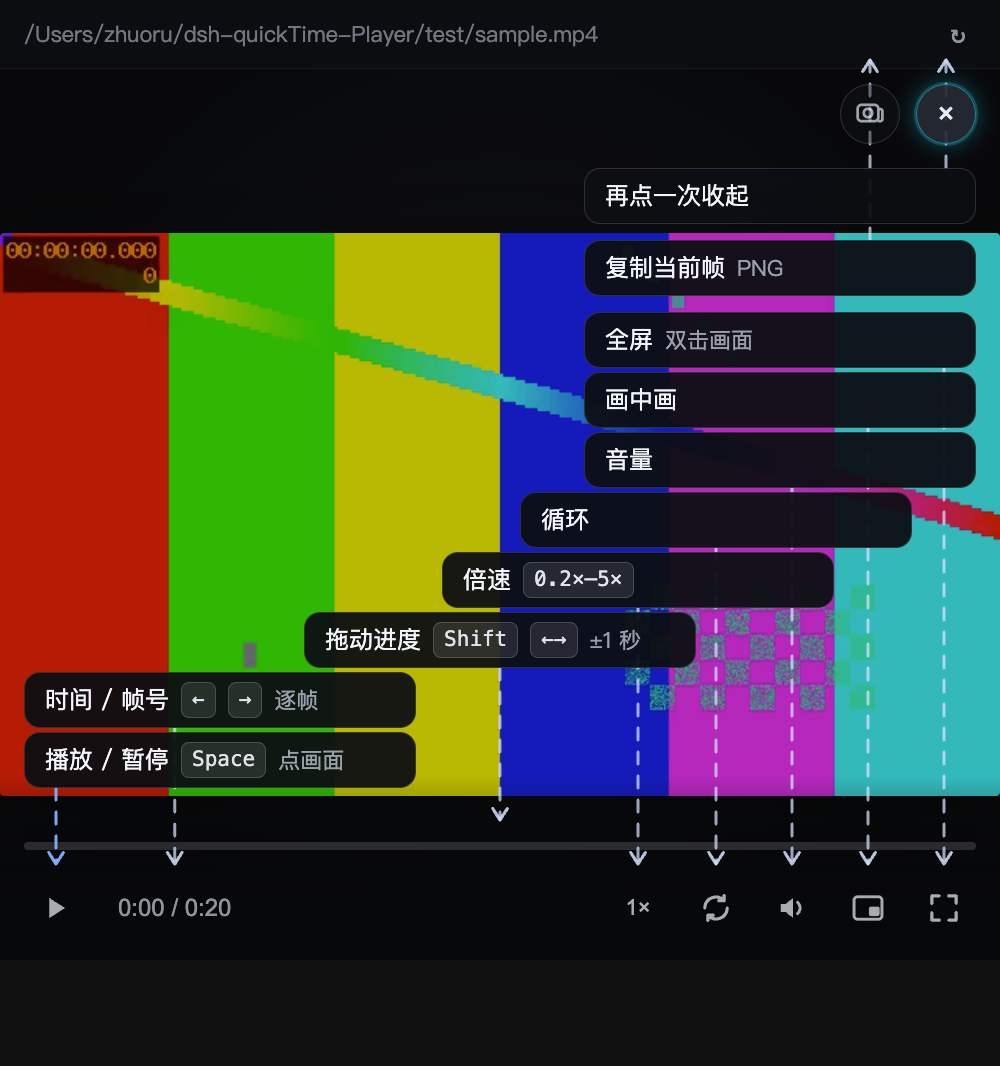
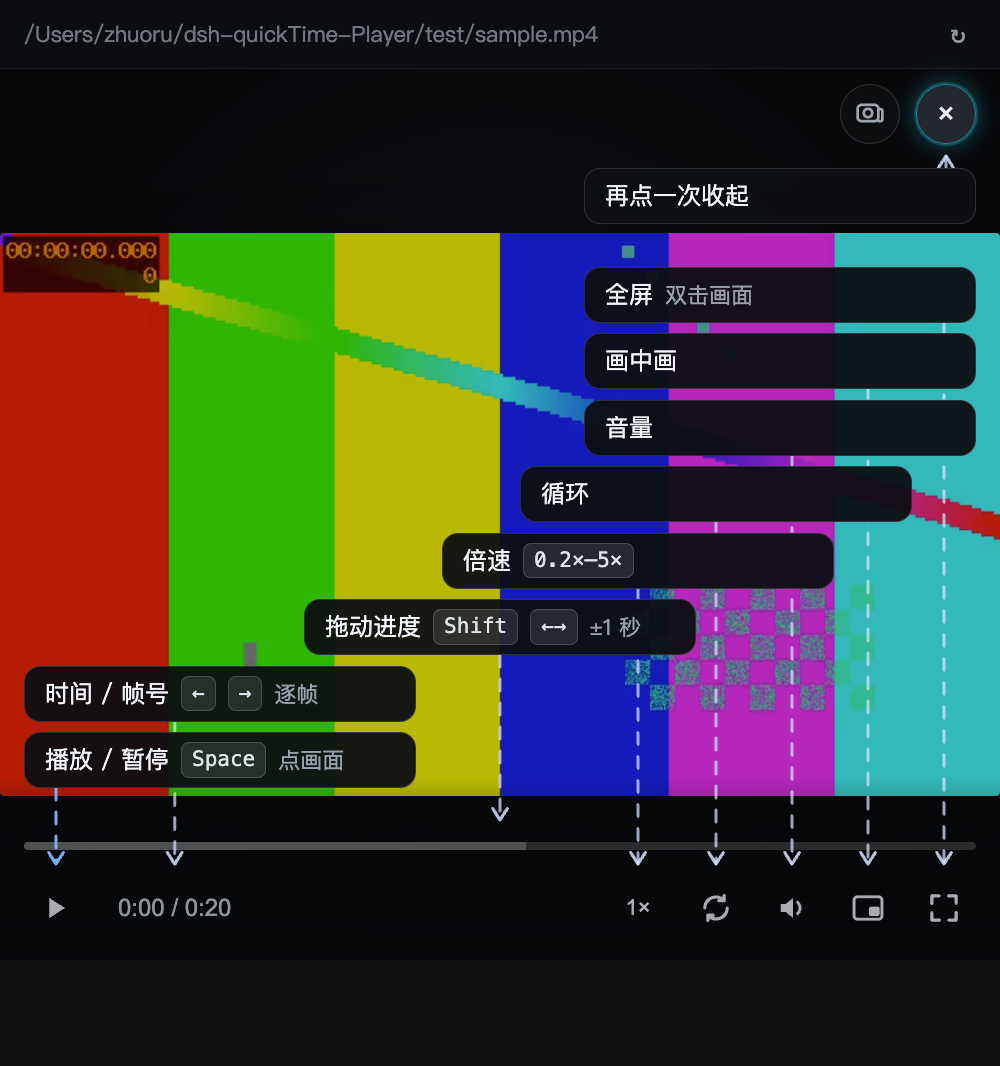
Stop the upward arrow at the button and trim the guide
The arrow's endpoint was computed above the corner button, so the line crossed
it; it now stops below. The top-right column keeps a single close hint — the
copy button explains itself through its tooltip and toast.

diff --git a/client.js b/client.js
@@ -51,7 +51,6 @@ window.__ModuleLoader__.load({
       { key: 'pip', side: 'right', label: '\u753b\u4e2d\u753b' },
       { key: 'fs', side: 'right', label: '\u5168\u5c4f', hint: '\u53cc\u51fb\u753b\u9762' },
       { key: 'help', side: 'top', label: '\u518d\u70b9\u4e00\u6b21\u6536\u8d77' },
-      { key: 'copy', side: 'top', label: '\u590d\u5236\u5f53\u524d\u5e27', hint: 'PNG' },
     ]
 
     /**
@@ -1220,7 +1219,8 @@ window.__ModuleLoader__.load({
               height: capHeight,
             }
             var lineX = clamp(item.anchorX, item.capsule.left + 12, item.capsule.left + capWidth - 12)
-            item.path = 'M ' + lineX + ' ' + item.capsule.top + ' L ' + lineX + ' ' + (item.anchorY - 12)
+            // stop just below the button: an upward arrow must not cross the control
+            item.path = 'M ' + lineX + ' ' + item.capsule.top + ' L ' + lineX + ' ' + (item.anchorY + 36)
           })
 
           // Bottom clusters share the space left under the top one: one row pitch
@@ -1260,6 +1260,14 @@ window.__ModuleLoader__.load({
       var renderHelpLayer = function () {
         var children = []
         if (annotations !== null) {
+          var masks = annotations.items.map(function (item) {
+            return h('rect', {
+              key: 'm-' + item.spec.key,
+              x: item.capsule.left, y: item.capsule.top,
+              width: item.capsule.width, height: item.capsule.height,
+              rx: 8, fill: 'black',
+            })
+          })
           children.push(h('svg', {
             key: 'arrows',
             className: 'qtp-helpArrows',
@@ -1268,6 +1276,8 @@ window.__ModuleLoader__.load({
             viewBox: '0 0 ' + annotations.width + ' ' + annotations.height,
           }, [
             h('defs', { key: 'd' }, [
+              h('mask', { key: 'm', id: 'qtp-card-mask', maskUnits: 'userSpaceOnUse', x: 0, y: 0, width: annotations.width, height: annotations.height },
+                [h('rect', { key: 'bg', x: 0, y: 0, width: annotations.width, height: annotations.height, fill: 'white' })].concat(masks)),
               h('marker', {
                 key: 'a', id: 'qtp-arrow-head', viewBox: '0 0 10 10', refX: 7, refY: 5,
                 markerWidth: 7, markerHeight: 7, orient: 'auto-start-reverse',
@@ -1277,9 +1287,11 @@ window.__ModuleLoader__.load({
                 markerWidth: 7, markerHeight: 7, orient: 'auto-start-reverse',
               }, h('path', { d: 'M1.5 1.5 L7 5 L1.5 8.5', fill: 'none', stroke: 'rgba(127,178,255,.95)', strokeWidth: 1.5, strokeLinecap: 'round', strokeLinejoin: 'round' })),
             ]),
-          ].concat(annotations.items.map(function (item) {
-            return h('path', { key: item.spec.key, d: item.path, className: 'qtp-arrow', 'data-accent': item.spec.accent ? 'true' : 'false' })
-          }))))
+          ].concat([
+            h('g', { key: 'lines', mask: 'url(#qtp-card-mask)' }, annotations.items.map(function (item) {
+              return h('path', { key: item.spec.key, d: item.path, className: 'qtp-arrow', 'data-accent': item.spec.accent ? 'true' : 'false' })
+            })),
+          ])))
           annotations.items.forEach(function (item) {
             children.push(h('div', {
               key: 'c-' + item.spec.key,
